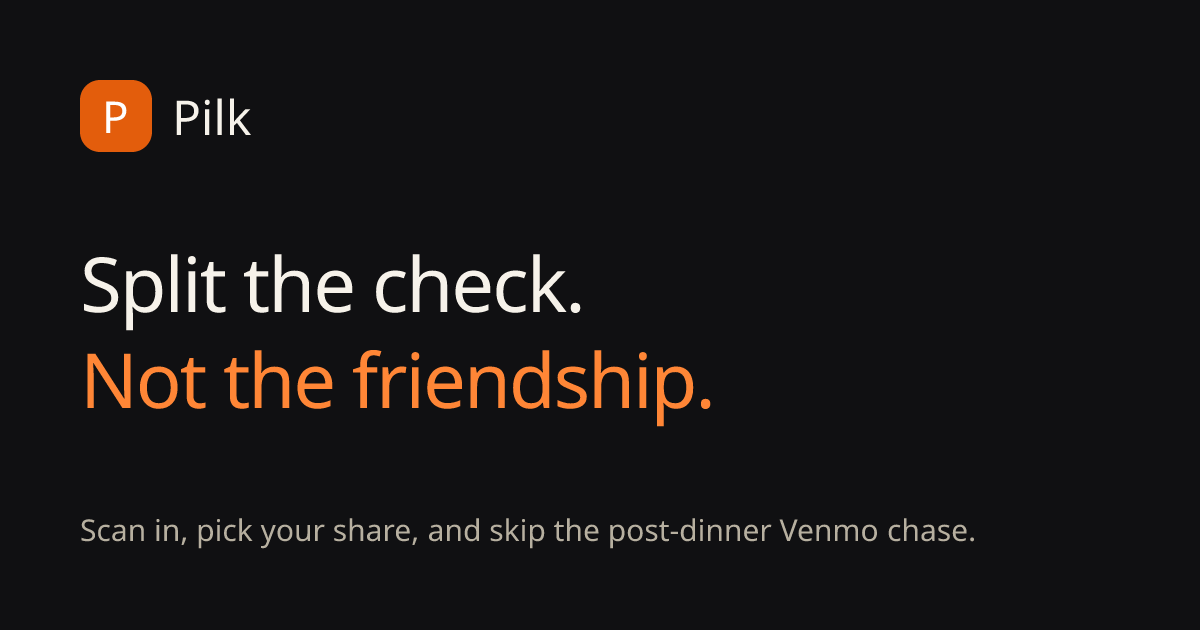
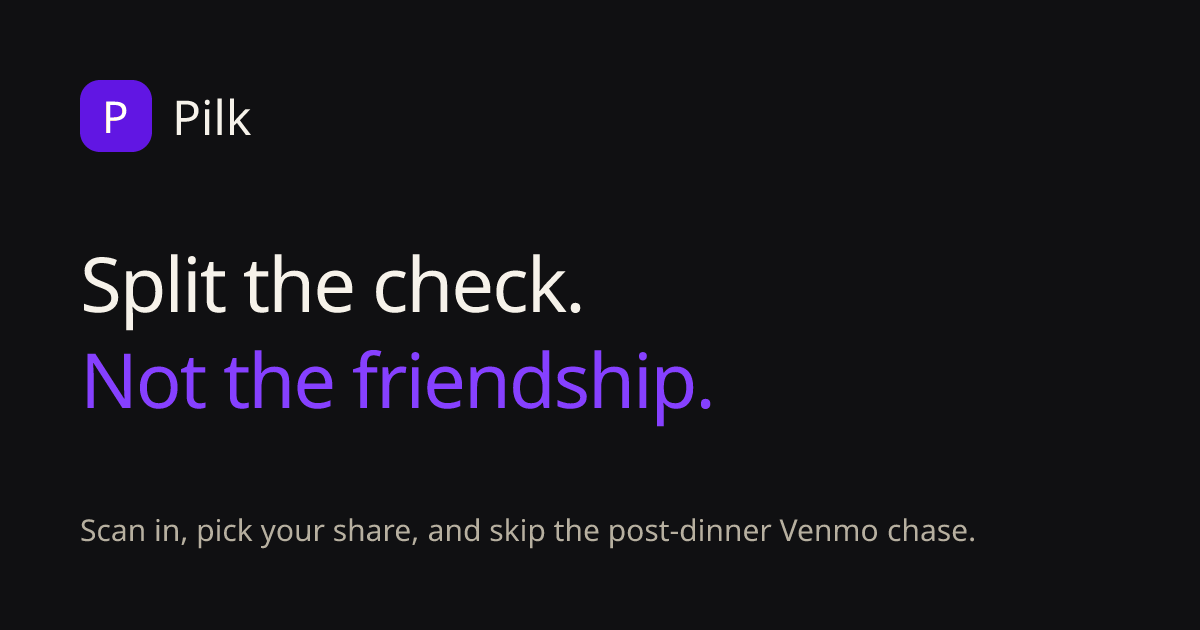
Rebrand to violet + add ops dashboard
Swap the pilk color ramp from orange to the app's violet (#8B5CF6 core),
update the hero glow, selection color, and hue-shift the favicon and OG
image to match. Teal money accents unchanged.

Add admin.php: session-gated ops dashboard (volume, profit via the
app's tier fee model, transaction filters, support ticket replies).
Its config.php (Supabase service key) is gitignored.

Claude-Session: https://claude.ai/code/session_01Wnc3SmNSirfoeXQmnMAELn

Changed region(s): [[0.0617, 0.5429, 0.5858, 0.6635], [0.0617, 0.1206, 0.1542, 0.2413]]

diff --git a/tailwind.config.ts b/tailwind.config.ts
@@ -28,22 +28,21 @@ const config: Config = {
           500: "#948C7C",
           400: "#6F6858",
         },
-        // Pilk's signature colour — a warm, vivid orange.
+        // Pilk's signature colour — the app's violet, matching the product.
         pilk: {
-          50: "#FFF3E9",
-          100: "#FFE2CC",
-          200: "#FFC59B",
-          300: "#FFA366",
-          400: "#FF8636",
-          500: "#F76B15",
-          600: "#E35D0C",
-          700: "#BC4A0B",
-          800: "#953C0F",
-          900: "#7A3310",
+          50: "#F3EEFE",
+          100: "#E4D9FD",
+          200: "#CDB8FA",
+          300: "#B195F8",
+          400: "#9A75F7",
+          500: "#8B5CF6",
+          600: "#7C3AED",
+          700: "#6D28D9",
+          800: "#5B21B6",
+          900: "#4C1D95",
         },
-        // Teal — orange's complement. Used as the cool secondary accent for
-        // "done / settled / positive" states, balancing the warm orange
-        // (60-30-10: dark neutral / orange / teal).
+        // Teal — the money colour (secured / settled / positive states),
+        // mirroring the app (60-30-10: dark neutral / violet / teal).
         teal: {
           200: "#99F6E4",
           300: "#5EEAD4",

diff --git a/src/components/Hero.tsx b/src/components/Hero.tsx
@@ -9,7 +9,7 @@ export function Hero() {
       <div
         aria-hidden
         className="pointer-events-none absolute inset-x-0 top-0 h-[620px]
-          bg-[radial-gradient(55%_55%_at_72%_8%,rgba(247,107,21,0.16),transparent_70%),radial-gradient(45%_50%_at_12%_88%,rgba(20,184,166,0.10),transparent_70%)]"
+          bg-[radial-gradient(55%_55%_at_72%_8%,rgba(139,92,246,0.16),transparent_70%),radial-gradient(45%_50%_at_12%_88%,rgba(20,184,166,0.10),transparent_70%)]"
       />
 
       <div className="container-page relative grid gap-12 pb-16 pt-14 sm:pt-20 lg:grid-cols-[1.05fr_0.95fr] lg:items-center lg:gap-8 lg:pb-24">

diff --git a/src/app/globals.css b/src/app/globals.css
@@ -29,7 +29,7 @@
   }
 
   ::selection {
-    background-color: rgba(247, 107, 21, 0.28);
+    background-color: rgba(139, 92, 246, 0.28);
   }
 }
 

diff --git a/admin.php b/admin.php
@@ -1,0 +1,315 @@
+<?php
+// Pilk ops dashboard. Single file; secrets live in config.php (gitignored).
+// Tabs: Overview (today's volume + profit) · Transactions (filters) ·
+// Reviews (later) · Tickets (list + reply via service role).
+require __DIR__ . '/config.php';
+session_start();
+
+// ---------------------------------------------------------------------------
+// Auth
+// ---------------------------------------------------------------------------
+if (isset($_GET['logout'])) {
+  session_destroy();
+  header('Location: admin.php');
+  exit;
+}
+if ($_SERVER['REQUEST_METHOD'] === 'POST' && isset($_POST['login_user'])) {
+  if (
+    hash_equals(ADMIN_USER, $_POST['login_user'] ?? '') &&
+    password_verify($_POST['login_pass'] ?? '', ADMIN_PASS_HASH)
+  ) {
+    $_SESSION['admin'] = true;
+    $_SESSION['csrf'] = bin2hex(random_bytes(16));
+  } else {
+    $login_error = 'Wrong username or password.';
+  }
+}
+$authed = !empty($_SESSION['admin']);
+
+// ---------------------------------------------------------------------------
+// Supabase REST helper (service role — server side only)
+// ---------------------------------------------------------------------------
+function supa(string $method, string $path, $body = null) {
+  $ch = curl_init(SUPABASE_URL . '/rest/v1/' . $path);
+  $headers = [
+    'apikey: ' . SUPABASE_SERVICE_KEY,
+    'Authorization: Bearer ' . SUPABASE_SERVICE_KEY,
+    'Content-Type: application/json',
+    'Prefer: return=representation',
+  ];
+  curl_setopt_array($ch, [
+    CURLOPT_CUSTOMREQUEST => $method,
+    CURLOPT_RETURNTRANSFER => true,
+    CURLOPT_HTTPHEADER => $headers,
+    CURLOPT_TIMEOUT => 15,
+  ]);
+  if ($body !== null) curl_setopt($ch, CURLOPT_POSTFIELDS, json_encode($body));
+  $res = curl_exec($ch);
+  $code = curl_getinfo($ch, CURLINFO_RESPONSE_CODE);
+  if ($res === false || $code >= 400) return ['__error' => "HTTP $code: " . substr((string) $res, 0, 300)];
+  return json_decode($res, true) ?? [];
+}
+
+// ---------------------------------------------------------------------------
+// Fee model — MUST mirror pilk/domain/fees.ts (tier by per-head spend).
+// ---------------------------------------------------------------------------
+const TIERS = [
+  'everyday'   => ['margin' => 0.011, 'cap' => 1000],
+  'upscale'    => ['margin' => 0.014, 'cap' => 2500],
+  'fineDining' => ['margin' => 0.018, 'cap' => null],
+];
+function dining_tier(int $billCents, int $people): string {
+  if ($billCents <= 0 || $people <= 0) return 'everyday';
+  $ph = $billCents / $people;
+  if ($ph >= 7500) return 'fineDining';
+  if ($ph >= 5000) return 'upscale';
+  return 'everyday';
+}
+function fee_cents(int $share, string $tier): int {
+  if ($share <= 0) return 0;
+  $t = TIERS[$tier];
+  $target = $t['cap'] === null ? $share * $t['margin'] : min($share * $t['margin'], $t['cap']);
+  return (int) round((0.029 * $share + 30 + $target) / 0.971);
+}
+function net_cents(int $share, string $tier): int {
+  $f = fee_cents($share, $tier);
+  return $f - (int) round(0.029 * ($share + $f)) - 30;
+}
+function txn_economics(array $t): array {
+  $tier = dining_tier((int) $t['total_cents'], (int) $t['people_count']);
+  $fees = 0; $net = 0;
+  foreach ($t['transaction_shares'] ?? [] as $s) {
+    $fees += fee_cents((int) $s['share_cents'], $tier);
+    $net += net_cents((int) $s['share_cents'], $tier);
+  }
+  return ['tier' => $tier, 'fees' => $fees, 'net' => $net];
+}
+function money(int $cents): string { return '$' . number_format($cents / 100, 2); }
+
+// ---------------------------------------------------------------------------
+// Actions (tickets)
+// ---------------------------------------------------------------------------
+$notice = null;
+if ($authed && $_SERVER['REQUEST_METHOD'] === 'POST' && isset($_POST['ticket_id'])) {
+  if (!hash_equals($_SESSION['csrf'] ?? '', $_POST['csrf'] ?? '')) {
+    $notice = 'Session expired, try again.';
+  } else {
+    $reply = trim($_POST['reply'] ?? '');
+    $status = in_array($_POST['status'] ?? '', ['answered', 'closed'], true) ? $_POST['status'] : 'answered';
+    if ($reply !== '') {
+      $r = supa('PATCH', 'support_tickets?id=eq.' . urlencode($_POST['ticket_id']), [
+        'reply' => $reply, 'status' => $status, 'replied_at' => gmdate('c'),
+      ]);
+      $notice = isset($r['__error']) ? 'Reply failed: ' . $r['__error'] : 'Reply sent.';
+    }
+  }
+}
+
+// ---------------------------------------------------------------------------
+// Data
+// ---------------------------------------------------------------------------
+$tab = $_GET['tab'] ?? 'overview';
+$range = $_GET['range'] ?? 'today';
+$sort = $_GET['sort'] ?? 'recent';
+
+$txns = [];
+$tickets = [];
+$fetch_error = null;
+if ($authed) {
+  $since = null;
+  if ($range === 'today') $since = date('c', strtotime('today'));
+  elseif ($range === '7d') $since = date('c', strtotime('-7 days'));
+  $q = 'transactions?select=*,transaction_shares(*)&order=created_at.desc&limit=200';
+  if ($since) $q .= '&created_at=gte.' . urlencode($since);
+  $txns = supa('GET', $q);
+  if (isset($txns['__error'])) { $fetch_error = $txns['__error']; $txns = []; }
+  foreach ($txns as $i => $t) $txns[$i]['eco'] = txn_economics($t);
+  if ($sort === 'top') usort($txns, fn($a, $b) => $b['total_cents'] <=> $a['total_cents']);
+  elseif ($sort === 'profit') usort($txns, fn($a, $b) => $b['eco']['net'] <=> $a['eco']['net']);
+
+  if ($tab === 'tickets') {
+    $tickets = supa('GET', 'support_tickets?select=*,profiles(name)&order=created_at.desc&limit=100');
+    if (isset($tickets['__error'])) { $fetch_error = $tickets['__error']; $tickets = []; }
+  }
+}
+
+$todayTotal = 0; $todayNet = 0; $todayFees = 0;
+foreach ($txns as $t) {
+  $todayTotal += (int) $t['total_cents'];
+  $todayNet += $t['eco']['net'];
+  $todayFees += $t['eco']['fees'];
+}
+$tierLabel = ['everyday' => 'Everyday', 'upscale' => 'Upscale', 'fineDining' => 'Fine dining'];
+function h(?string $s): string { return htmlspecialchars($s ?? '', ENT_QUOTES); }
+?><!doctype html>
+<html lang="en">
+<head>
+<meta charset="utf-8">
+<meta name="viewport" content="width=device-width, initial-scale=1">
+<title>Pilk Ops</title>
+<link rel="preconnect" href="https://fonts.googleapis.com">
+<link href="https://fonts.googleapis.com/css2?family=Sora:wght@400;600;700&display=swap" rel="stylesheet">
+<style>
+  :root { --bg:#0A090E; --card:#16131D; --raised:#201B2B; --border:#2A2536;
+          --text:#F4F2F8; --text2:#A9A3B8; --text3:#8A8399;
+          --primary:#8B5CF6; --teal:#14B8A6; --red:#EF4444; }
+  * { box-sizing:border-box; margin:0; }
+  body { background:var(--bg); color:var(--text); font-family:'Sora',sans-serif; min-height:100vh; }
+  a { color:var(--primary); text-decoration:none; }
+  .wrap { max-width:1080px; margin:0 auto; padding:24px 16px 64px; }
+  .topbar { display:flex; align-items:center; justify-content:space-between; margin-bottom:24px; }
+  h1 { font-size:28px; }  h2 { font-size:20px; margin-bottom:12px; }
+  .mark { width:30px; height:30px; border-radius:50%;
+          background:conic-gradient(var(--primary) 0 58deg, var(--bg) 58deg 62deg, var(--primary) 62deg 118deg, var(--bg) 118deg 122deg, var(--primary) 122deg 178deg, var(--bg) 178deg 182deg, var(--primary) 182deg 238deg, var(--bg) 238deg 242deg, var(--primary) 242deg 298deg, var(--bg) 298deg 302deg, var(--primary) 302deg 358deg, var(--bg) 358deg 360deg); }
+  .tabs { display:flex; gap:4px; border-bottom:1px solid var(--border); margin-bottom:24px; }
+  .tabs a { padding:10px 16px; color:var(--text2); border-bottom:2px solid transparent; }
+  .tabs a.active { color:var(--text); border-bottom-color:var(--primary); }
+  .cards { display:grid; grid-template-columns:repeat(auto-fit,minmax(220px,1fr)); gap:12px; margin-bottom:24px; }
+  .card { background:var(--card); border:1px solid var(--border); border-radius:16px; padding:20px; }
+  .kpi { font-size:32px; font-weight:700; font-variant-numeric:tabular-nums; }
+  .kpi.teal { color:var(--teal); }
+  .label { font-size:13px; color:var(--text3); margin-bottom:6px; }
+  table { width:100%; border-collapse:collapse; font-size:14px; }
+  th { text-align:left; color:var(--text3); font-weight:400; font-size:12px; padding:8px 10px; border-bottom:1px solid var(--border); }
+  td { padding:12px 10px; border-bottom:1px solid var(--border); font-variant-numeric:tabular-nums; }
+  tr:last-child td { border-bottom:none; }
+  .pill { display:inline-block; padding:2px 10px; border-radius:999px; font-size:12px; background:var(--bg); border:1px dotted var(--text3); color:var(--text2); }
+  .pill.upscale { border-color:var(--primary); color:var(--primary); }
+  .pill.fineDining { border-color:var(--teal); color:var(--teal); }
+  .filters { display:flex; gap:8px; margin-bottom:16px; flex-wrap:wrap; }
+  .filters a { padding:6px 14px; border:1px solid var(--border); border-radius:999px; color:var(--text2); font-size:13px; }
+  .filters a.on { border-color:var(--primary); color:var(--text); }
+  input, textarea, select, button { font-family:inherit; font-size:15px; color:var(--text);
+    background:var(--raised); border:1px solid var(--border); border-radius:12px; padding:12px 14px; }
+  button { background:var(--primary); border:none; color:#fff; font-weight:600; cursor:pointer; }
+  button:hover { opacity:.9; }
+  .login { max-width:360px; margin:15vh auto 0; display:flex; flex-direction:column; gap:12px; }
+  .err { color:var(--red); font-size:14px; }
+  .notice { background:var(--raised); border:1px solid var(--border); border-radius:12px; padding:12px 16px; margin-bottom:16px; font-size:14px; }
+  .ticket { margin-bottom:16px; }
+  .ticket .meta { font-size:12px; color:var(--text3); margin-bottom:8px; }
+  .ticket p { color:var(--text2); font-size:14px; margin:8px 0; }
+  .ticket form { display:flex; gap:8px; margin-top:12px; flex-wrap:wrap; }
+  .ticket textarea { flex:1; min-width:240px; min-height:44px; }
+  .reply { border-left:3px solid var(--teal); padding-left:12px; }
+  .muted { color:var(--text3); font-size:14px; }
+</style>
+</head>
+<body>
+<?php if (!$authed): ?>
+  <form class="login" method="post" action="admin.php">
+    <div style="display:flex;align-items:center;gap:10px;margin-bottom:8px"><div class="mark"></div><h1>Pilk Ops</h1></div>
+    <?php if (!empty($login_error)): ?><div class="err"><?= h($login_error) ?></div><?php endif; ?>
+    <input name="login_user" placeholder="Username" autocomplete="username" autofocus>
+    <input name="login_pass" type="password" placeholder="Password" autocomplete="current-password">
+    <button type="submit">Sign in</button>
+  </form>
+<?php else: ?>
+<div class="wrap">
+  <div class="topbar">
+    <div style="display:flex;align-items:center;gap:10px"><div class="mark"></div><h1>Pilk Ops</h1></div>
+    <a href="?logout=1">Sign out</a>
+  </div>
+
+  <div class="tabs">
+    <?php foreach (['overview' => 'Overview', 'transactions' => 'Transactions', 'reviews' => 'Reviews', 'tickets' => 'Tickets'] as $k => $label): ?>
+      <a href="?tab=<?= $k ?>" class="<?= $tab === $k ? 'active' : '' ?>"><?= $label ?></a>
+    <?php endforeach; ?>
+  </div>
+
+  <?php if ($notice): ?><div class="notice"><?= h($notice) ?></div><?php endif; ?>
+  <?php if ($fetch_error): ?><div class="notice err">Supabase error: <?= h($fetch_error) ?></div><?php endif; ?>
+
+  <?php if ($tab === 'overview'): ?>
+    <div class="filters">
+      <?php foreach (['today' => 'Today', '7d' => 'Last 7 days', 'all' => 'All time'] as $k => $label): ?>
+        <a href="?tab=overview&range=<?= $k ?>" class="<?= $range === $k ? 'on' : '' ?>"><?= $label ?></a>
+      <?php endforeach; ?>
+    </div>
+    <div class="cards">
+      <div class="card"><div class="label">Money transacted</div><div class="kpi"><?= money($todayTotal) ?></div></div>
+      <div class="card"><div class="label">Pilk profit (net of Stripe)</div><div class="kpi teal"><?= money($todayNet) ?></div></div>
+      <div class="card"><div class="label">Fee revenue</div><div class="kpi"><?= money($todayFees) ?></div></div>
+      <div class="card"><div class="label">Dinners</div><div class="kpi"><?= count($txns) ?></div></div>
+    </div>
+    <div class="card">
+      <h2>Latest dinners</h2>
+      <table>
+        <tr><th>Restaurant</th><th>When</th><th>Diners</th><th>Tier</th><th>Total</th><th>Pilk net</th></tr>
+        <?php foreach (array_slice($txns, 0, 8) as $t): ?>
+          <tr>
+            <td><?= h($t['title']) ?></td>
+            <td><?= h(date('g:i a', strtotime($t['created_at']))) ?></td>
+            <td><?= (int) $t['people_count'] ?></td>
+            <td><span class="pill <?= $t['eco']['tier'] ?>"><?= $tierLabel[$t['eco']['tier']] ?></span></td>
+            <td><?= money((int) $t['total_cents']) ?></td>
+            <td style="color:var(--teal)"><?= money($t['eco']['net']) ?></td>
+          </tr>
+        <?php endforeach; ?>
+      </table>
+    </div>
+
+  <?php elseif ($tab === 'transactions'): ?>
+    <div class="filters">
+      <?php foreach (['today' => 'Today', '7d' => 'Last 7 days', 'all' => 'All time'] as $k => $label): ?>
+        <a href="?tab=transactions&range=<?= $k ?>&sort=<?= h($sort) ?>" class="<?= $range === $k ? 'on' : '' ?>"><?= $label ?></a>
+      <?php endforeach; ?>
+      <span style="width:16px"></span>
+      <?php foreach (['recent' => 'Recent', 'top' => 'Top amount', 'profit' => 'Top profit'] as $k => $label): ?>
+        <a href="?tab=transactions&range=<?= h($range) ?>&sort=<?= $k ?>" class="<?= $sort === $k ? 'on' : '' ?>"><?= $label ?></a>
+      <?php endforeach; ?>
+    </div>
+    <div class="card">
+      <table>
+        <tr><th>Restaurant</th><th>Date</th><th>Diners</th><th>Tier</th><th>Total</th><th>Fees charged</th><th>Pilk net</th></tr>
+        <?php foreach ($txns as $t): ?>
+          <tr>
+            <td><?= h($t['title']) ?></td>
+            <td><?= h(date('M j, g:i a', strtotime($t['created_at']))) ?></td>
+            <td><?= (int) $t['people_count'] ?></td>
+            <td><span class="pill <?= $t['eco']['tier'] ?>"><?= $tierLabel[$t['eco']['tier']] ?></span></td>
+            <td><?= money((int) $t['total_cents']) ?></td>
+            <td><?= money($t['eco']['fees']) ?></td>
+            <td style="color:var(--teal)"><?= money($t['eco']['net']) ?></td>
+          </tr>
+        <?php endforeach; ?>
+        <?php if (!$txns): ?><tr><td colspan="7" class="muted">No transactions in this range.</td></tr><?php endif; ?>
+      </table>
+    </div>
+
+  <?php elseif ($tab === 'reviews'): ?>
+    <div class="card">
+      <h2>User reviews</h2>
+      <p class="muted">Coming soon. Reviews will land here once the app ships its post-dinner rating sheet.</p>
+    </div>
+
+  <?php elseif ($tab === 'tickets'): ?>
+    <?php foreach ($tickets as $tk): ?>
+      <div class="card ticket">
+        <div class="meta">
+          <?= h($tk['profiles']['name'] ?? 'Unknown diner') ?> ·
+          <?= h(date('M j, g:i a', strtotime($tk['created_at']))) ?> ·
+          <span class="pill"><?= h($tk['status']) ?></span>
+        </div>
+        <strong><?= h($tk['subject']) ?></strong>
+        <p><?= nl2br(h($tk['message'])) ?></p>
+        <?php if (!empty($tk['reply'])): ?>
+          <p class="reply"><?= nl2br(h($tk['reply'])) ?></p>
+        <?php endif; ?>
+        <?php if ($tk['status'] === 'open'): ?>
+          <form method="post" action="admin.php?tab=tickets">
+            <input type="hidden" name="csrf" value="<?= h($_SESSION['csrf']) ?>">
+            <input type="hidden" name="ticket_id" value="<?= h($tk['id']) ?>">
+            <textarea name="reply" placeholder="Write a reply"></textarea>
+            <select name="status"><option value="answered">Answer</option><option value="closed">Answer and close</option></select>
+            <button type="submit">Send</button>
+          </form>
+        <?php endif; ?>
+      </div>
+    <?php endforeach; ?>
+    <?php if (!$tickets): ?><div class="card"><p class="muted">No tickets.</p></div><?php endif; ?>
+  <?php endif; ?>
+</div>
+<?php endif; ?>
+</body>
+</html>
